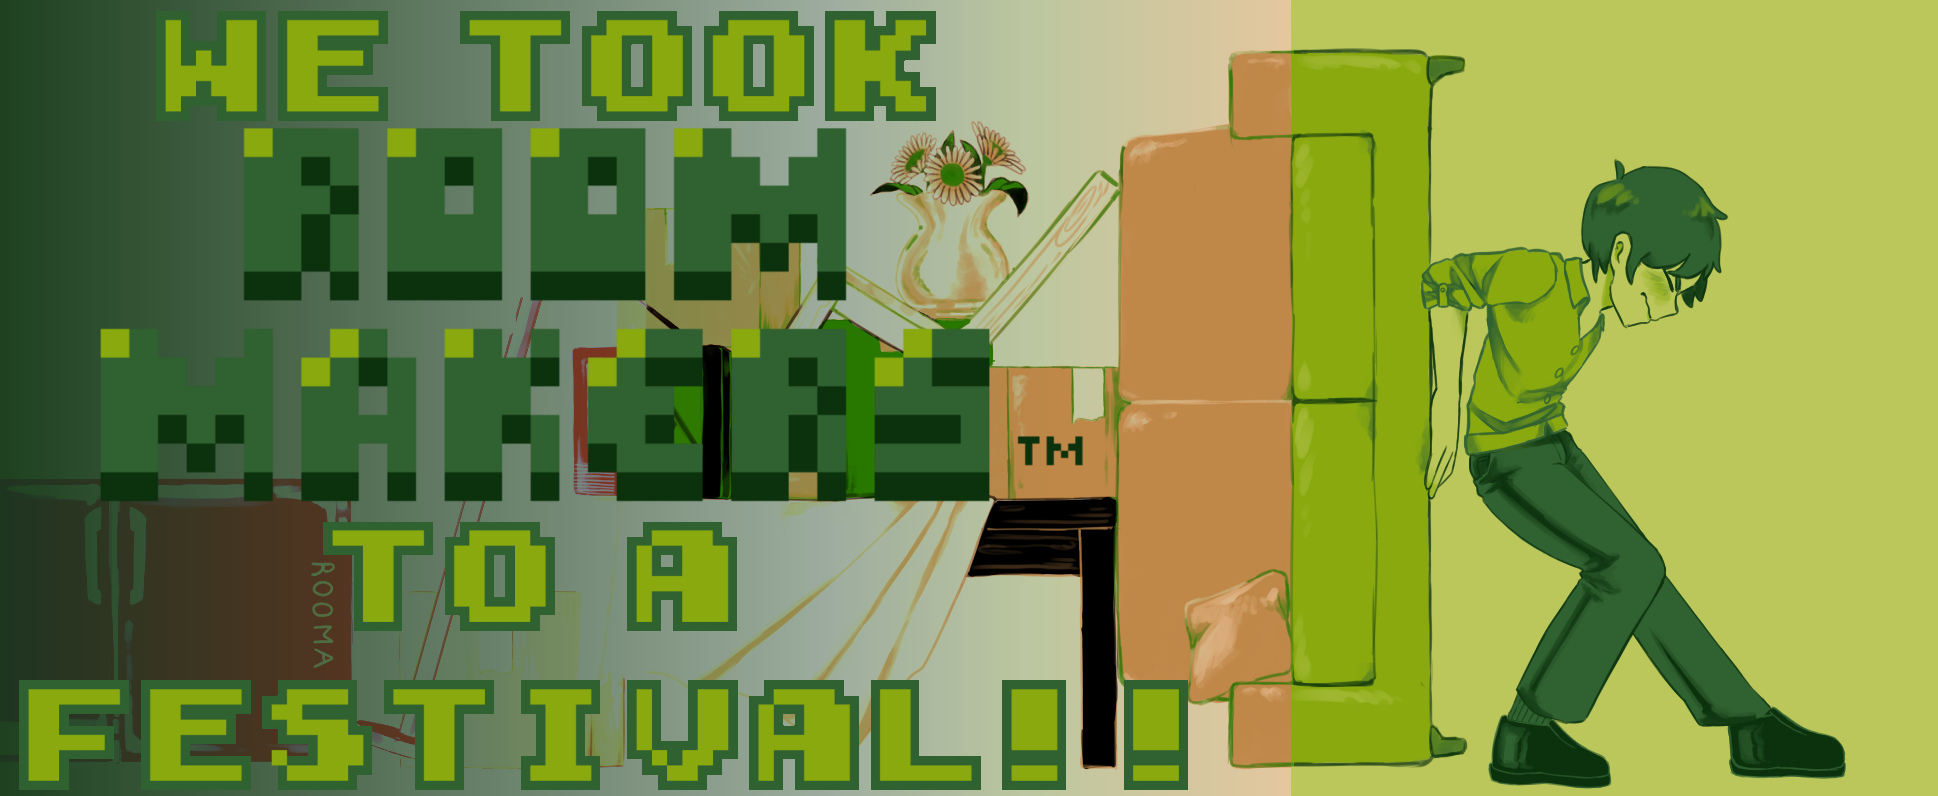
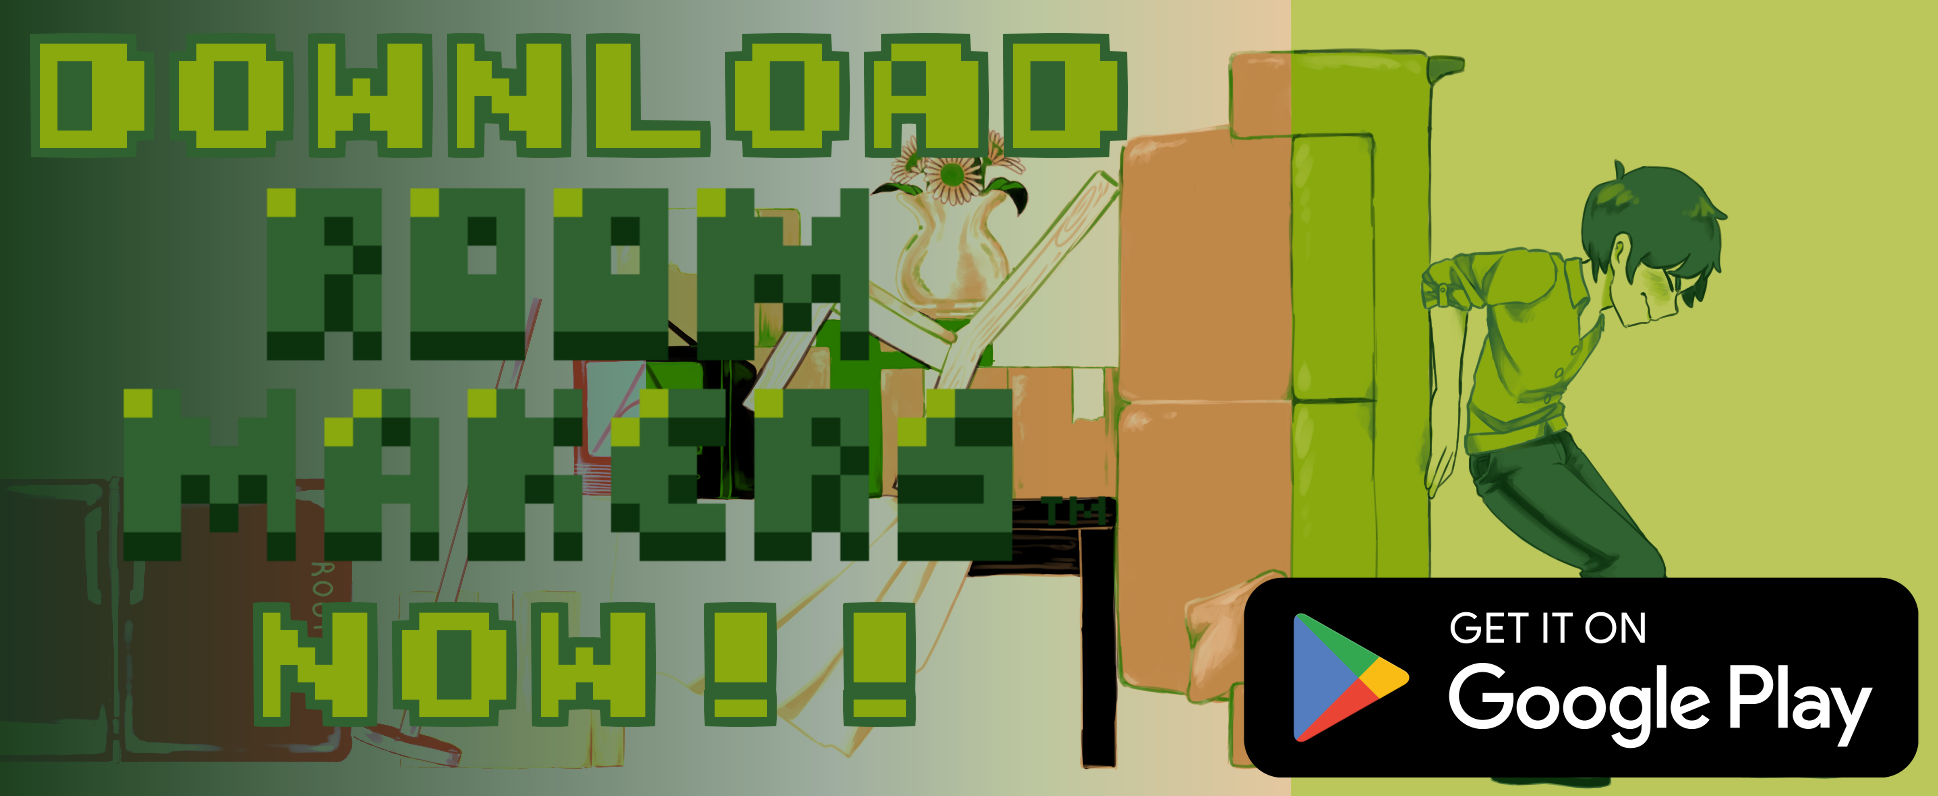
Updated news

diff --git a/index.html b/index.html
@@ -45,10 +45,11 @@
         <div class="news-carousel">
             <button class="prev"><</button>
             <div class="news-content">
-                <a href="http://blog.farteam.digital/2024/10/we-took-room-makers-to-festival.html" target="_blank" class="news-item active" data-lang-img="news_image_1"></a>
+                <a href="https://play.google.com/store/apps/details?id=com.FaRTeam.RoomMakers" target="_blank" class="news-item active" data-lang-img="news_image_1"></a>
                 <a href="farmoxel.html" target="_blank" class="news-item" data-lang-img="news_image_2"></a>
-                <a href="https://blog.farteam.digital/2024/01/more-characters.html" target="_blank" class="news-item" data-lang-img="news_image_3"></a>
+                <a href="https://blog.farteam.digital/2024/01/27/More-characters!.html" target="_blank" class="news-item" data-lang-img="news_image_3"></a>
                 <a href="https://farteam.digital/FormHiring/" target="_blank" class="news-item" data-lang-img="news_image_4"></a>
+                <a href="https://blog.farteam.digital/" target="_blank" class="news-item" data-lang-img="news_image_5"></a>
             </div>
             <div class="dots"></div>
             <button class="next">></button>

diff --git a/translations.js b/translations.js
@@ -38,6 +38,7 @@ const translations = {
         news_image_2: "Images/News2.png", 
         news_image_3: "Images/News3.png",
         news_image_4: "Images/News4.png",
+        news_image_5: "Images/News5.png",
         downloadButton: "DOWNLOAD FOR FREE",
         demoButton: "PLAY OUR FREE DEMO", 
         feedbackButton: "GIVE US FEEDBACK",
@@ -94,6 +95,7 @@ const translations = {
         news_image_2: "Images/News2_es.png",
         news_image_3: "Images/News3_es.png", 
         news_image_4: "Images/News4_es.png",
+        news_image_4: "Images/News5_es.png",
         downloadButton: "DESCARGALO GRATIS",
         demoButton: "JUGÁ LA DEMO GRATIS", 
         feedbackButton: "DANOS FEEDBACK",
